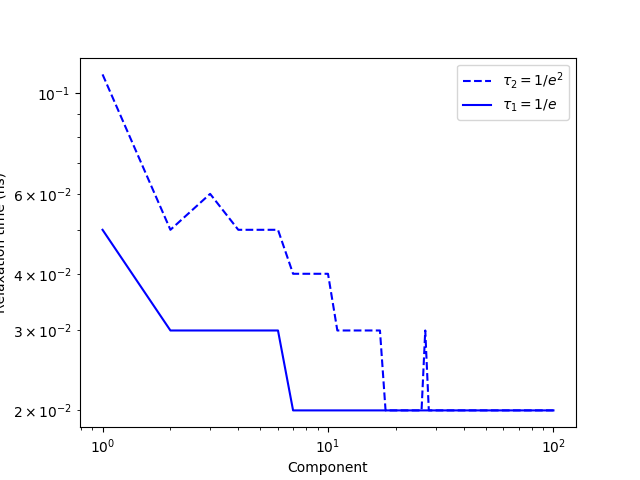
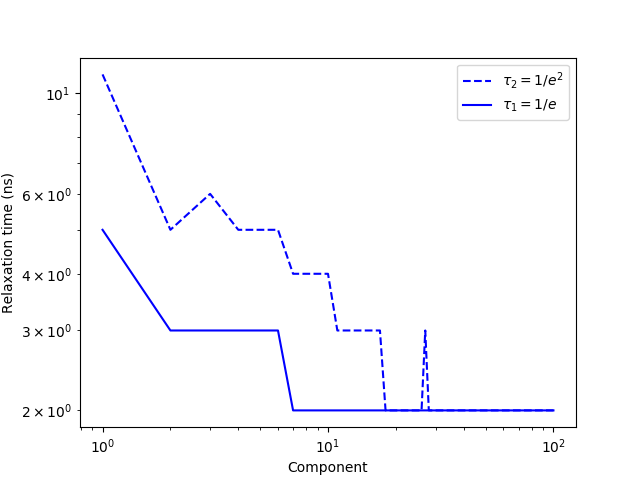
README

diff --git a/scr/kss_time_scale.py b/scr/kss_time_scale.py
@@ -118,6 +118,7 @@ def calc(filename, N_lip, timestep):     #, N_lip, N_bins, N_samples, cutoff = 0
     cum_ideal = cum_dist(dist_ideal)
     data = split_data_by_lip(data, N_lip) # Разделение по липидам
     max_power = math.log(len(data[0]), 1.5)
+    print(max_power)
     # print(max_power)
     KSS_time = []
     T = []

diff --git a/README.md b/README.md
@@ -184,11 +184,11 @@ $ pcalipids motion -p \<projection file> -npc \<principal component> -aver \<ave
 
 * The equilibration of your lipid system can be easily examined by "ksst" and "autot" programs:
 ```bash 
-$ pcalipids autot -pr proj_1.xvg-proj_100.xvg -ln 128 -dt 0.01
+$ pcalipids autot -pr proj_1.xvg-proj_100.xvg -ln 128 -dt 1
 ```
 and
 ```bash    
-$ pcalipids ksst -pr proj_1.xvg-proj_100.xvg -ln 128 -dt 0.01
+$ pcalipids ksst -pr proj_1.xvg-proj_100.xvg -ln 128 -dt 1
 ```
 
 **KSS-timesalces:**
